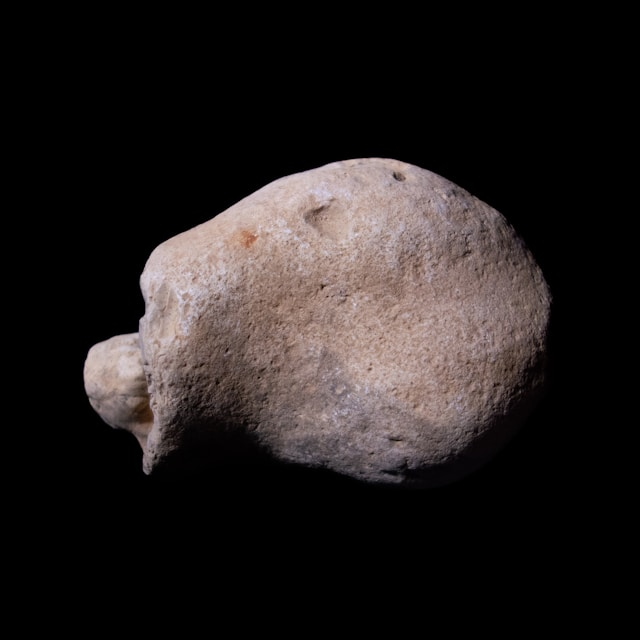
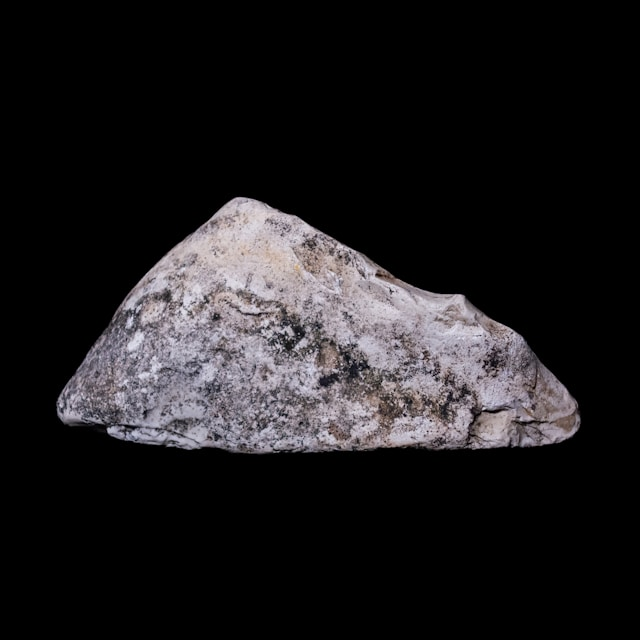
Change rock image

Changed region(s): [[0.0625, 0.2188, 0.9062, 0.7812]]

diff --git a/README.md b/README.md
@@ -11,7 +11,7 @@ Rock Image:
 
 - Photo by [Dmitry Kharitonov](https://unsplash.com/@leydenfrost?utm_content=creditCopyText&utm_medium=referral&utm_source=unsplash)
 
-- From [Unsplash](https://unsplash.com/photos/a-rock-is-shown-against-a-black-background-C_3_jLy_yP4?utm_content=creditCopyText&utm_medium=referral&utm_source=unsplash)
+- From [Unsplash](https://unsplash.com/photos/a-rock-is-shown-against-a-black-background-rKi82Ame5Do?utm_content=creditCopyText&utm_medium=referral&utm_source=unsplash)
 
 
 Scissors Image:
